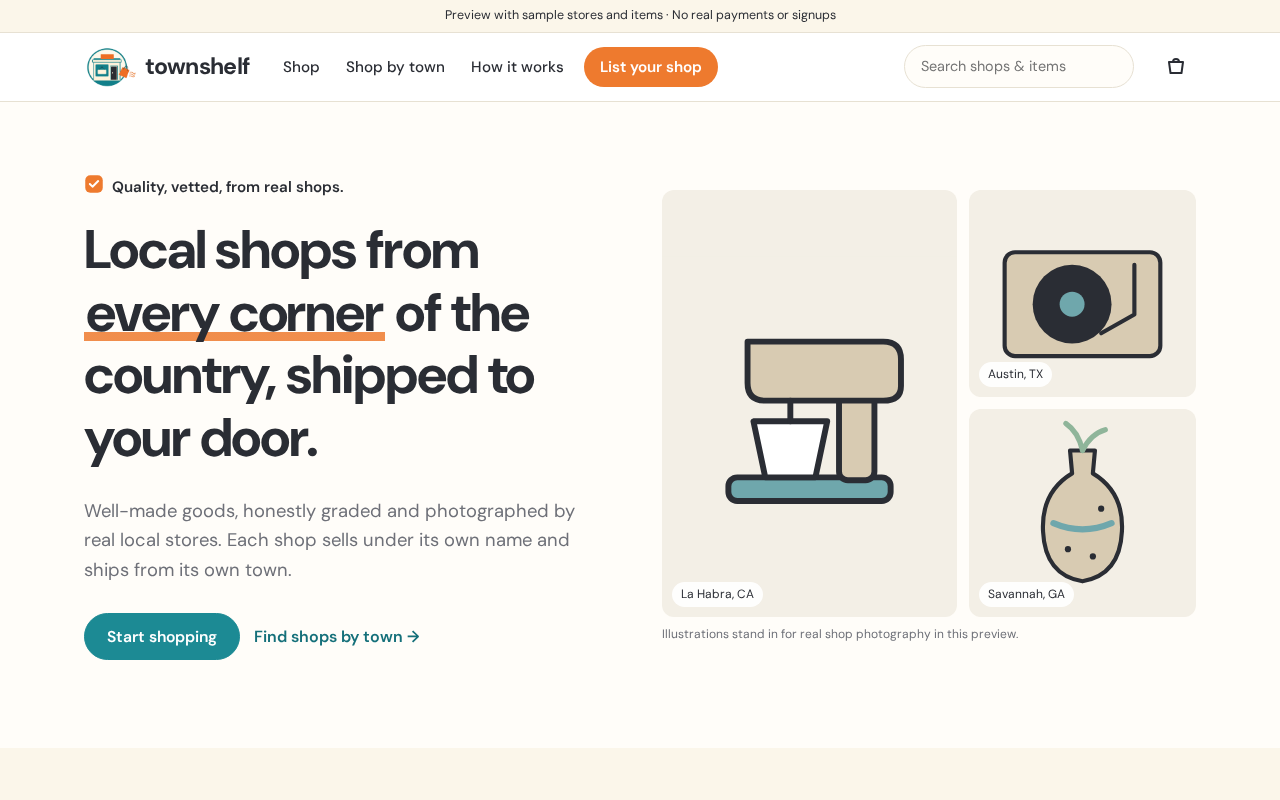
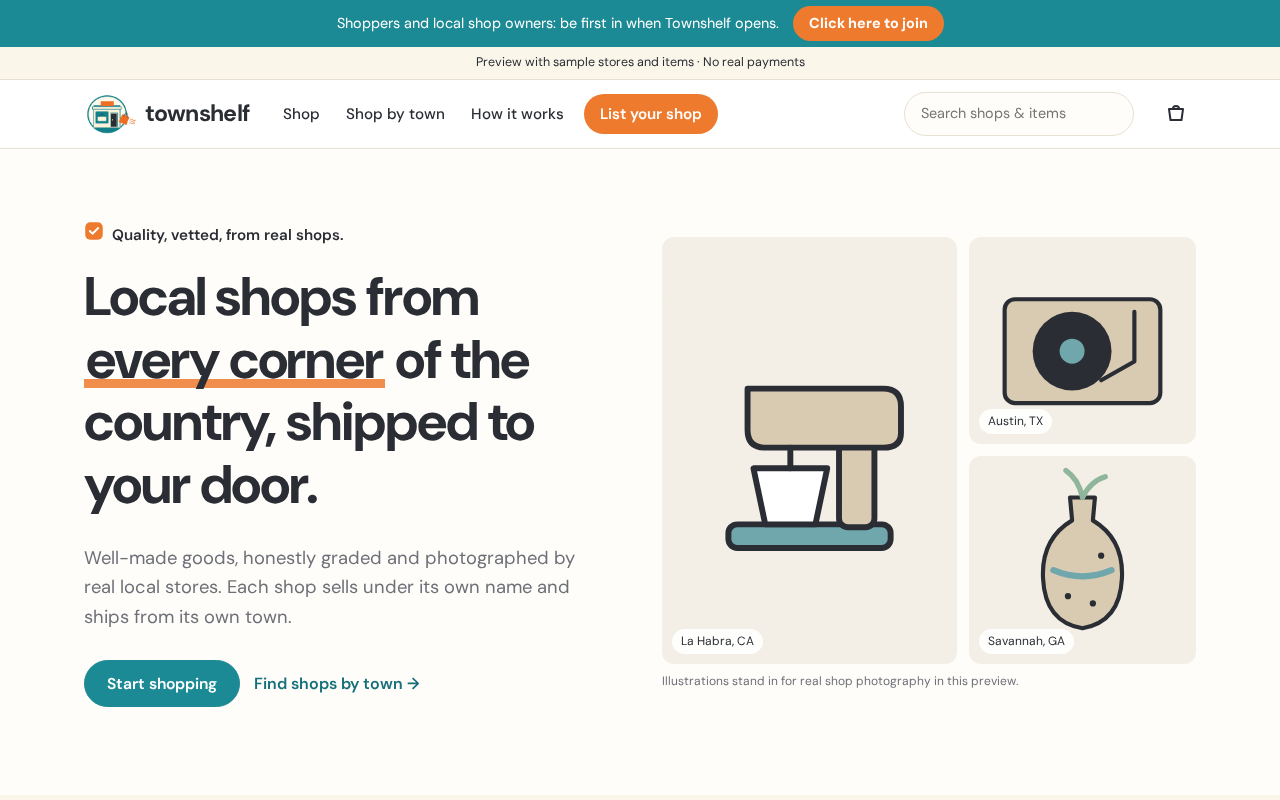
Add 'Click here to join' top bar and join form (FormSubmit to Mitch), bump service worker cache to v2

diff --git a/js/app.js b/js/app.js
@@ -168,6 +168,71 @@ TS.openDrawer = function(){
 };
 TS.closeDrawer = function(){document.getElementById("drawer").classList.remove("open");document.body.classList.remove("noscroll");};
 
+/* ---------- join form (FormSubmit, emails Mitch) ---------- */
+TS.JOIN_ENDPOINT = "https://formsubmit.co/ajax/Mitch@megabrownbox.com";
+TS.joinInit = function(){
+  if(document.getElementById("join")) return;
+  var m=document.createElement("div");
+  m.id="join"; m.className="join-modal"; m.setAttribute("aria-hidden","true");
+  m.innerHTML=
+   '<div class="join-scrim" data-join-close></div>'+
+   '<div class="join-panel" role="dialog" aria-modal="true" aria-labelledby="joinTitle">'+
+   '<button type="button" class="join-x" data-join-close aria-label="Close">×</button>'+
+   '<div class="join-form-wrap">'+
+   '<p class="eyebrow">Join Townshelf</p><h2 id="joinTitle">Be part of Townshelf</h2>'+
+   '<p class="join-lede">Leave your details and we\'ll reach out personally. Shop owners: tell us a little about your store.</p>'+
+   '<form id="joinForm" action="https://formsubmit.co/Mitch@megabrownbox.com" method="POST" novalidate>'+
+   '<input type="hidden" name="_subject" value="New Townshelf join request">'+
+   '<input type="hidden" name="_template" value="table">'+
+   '<input type="hidden" name="_captcha" value="false">'+
+   '<input type="hidden" name="Page" value="">'+
+   '<div class="join-hp" aria-hidden="true"><label>Leave this empty<input type="text" name="_honey" tabindex="-1" autocomplete="off"></label></div>'+
+   '<div class="join-row"><label>Name<input name="Name" required autocomplete="name"></label>'+
+   '<label>Email<input name="Email" type="email" required autocomplete="email"></label></div>'+
+   '<fieldset class="join-role"><legend>I am a</legend>'+
+   '<label class="join-chip"><input type="radio" name="I am a" value="Shopper" required><span>Shopper</span></label>'+
+   '<label class="join-chip"><input type="radio" name="I am a" value="Shop owner"><span>Shop owner</span></label></fieldset>'+
+   '<div class="join-owner" hidden>'+
+   '<div class="join-row"><label>Shop name <i>(optional)</i><input name="Shop name" autocomplete="organization"></label>'+
+   '<label>City, state <i>(optional)</i><input name="City/State" placeholder="e.g. La Habra, CA"></label></div>'+
+   '<div class="join-row"><label>Phone <i>(optional)</i><input name="Phone" type="tel" autocomplete="tel"></label>'+
+   '<label>Website or Instagram <i>(optional)</i><input name="Website/Instagram" placeholder="yourshop.com or @yourshop"></label></div></div>'+
+   '<label>Message <i>(optional)</i><textarea name="Message" rows="3"></textarea></label>'+
+   '<p class="join-err" role="alert" hidden></p>'+
+   '<button class="btn btn-primary join-submit" type="submit">Send</button>'+
+   '<p class="join-fine">Your details are sent to the Townshelf team by email.</p>'+
+   '</form></div>'+
+   '<div class="join-thanks" hidden tabindex="-1">'+TS.checkIcon(40)+'<h2>Thanks, you\'re on the list!</h2><p>We got your details and will be in touch soon.</p><button type="button" class="btn btn-ghost" data-join-close>Back to the site</button></div>'+
+   '</div>';
+  document.body.appendChild(m);
+  var form=m.querySelector("#joinForm"), owner=m.querySelector(".join-owner"), err=m.querySelector(".join-err"), lastFocus=null;
+  function open(){lastFocus=document.activeElement;m.classList.add("open");m.setAttribute("aria-hidden","false");document.documentElement.classList.add("join-lock");setTimeout(function(){var f=form.querySelector('[name="Name"]');if(f&&!m.querySelector(".join-thanks:not([hidden])"))f.focus();},50);}
+  function close(){m.classList.remove("open");m.setAttribute("aria-hidden","true");document.documentElement.classList.remove("join-lock");if(location.hash==="#join")history.replaceState(null,"",location.pathname+location.search);if(lastFocus&&lastFocus.focus)lastFocus.focus();}
+  TS.openJoin=open; TS.closeJoin=close;
+  document.addEventListener("click",function(e){var t=e.target.closest&&e.target.closest("[data-join]");if(t){e.preventDefault();open();}var c=e.target.closest&&e.target.closest("[data-join-close]");if(c){e.preventDefault();close();}});
+  document.addEventListener("keydown",function(e){if(e.key==="Escape"&&m.classList.contains("open"))close();});
+  window.addEventListener("hashchange",function(){if(location.hash==="#join")open();});
+  if(location.hash==="#join")open();
+  form.addEventListener("change",function(e){if(e.target.name==="I am a"){owner.hidden=e.target.value!=="Shop owner";}});
+  form.addEventListener("submit",function(e){
+    e.preventDefault(); err.hidden=true;
+    if(!form.checkValidity()){var bad=form.querySelector(":invalid");err.textContent=bad&&bad.type==="email"&&bad.value?"Please enter a valid email address.":"Please fill in your name, email and whether you're a shopper or shop owner.";err.hidden=false;if(bad)bad.focus();return;}
+    form.querySelector('[name="Page"]').value=location.href.split("#")[0];
+    var data={}; new FormData(form).forEach(function(v,k){data[k]=v;});
+    if(data["I am a"]!=="Shop owner"){["Shop name","City/State","Phone","Website/Instagram"].forEach(function(k){delete data[k];});}
+    function done(){m.querySelector(".join-form-wrap").hidden=true;var th=m.querySelector(".join-thanks");th.hidden=false;th.focus();form.reset();owner.hidden=true;}
+    if(data._honey){done();return;}   // bot filled the honeypot: pretend success, send nothing
+    var btn=form.querySelector(".join-submit"); btn.disabled=true; btn.textContent="Sending…";
+    fetch(TS.JOIN_ENDPOINT,{method:"POST",headers:{"Content-Type":"application/json","Accept":"application/json"},body:JSON.stringify(data)})
+      .then(function(r){return r.json().catch(function(){return {};}).then(function(j){return {ok:r.ok,j:j};});})
+      .then(function(res){var j=res.j||{};
+        if(res.ok && (String(j.success)==="true" || /activat/i.test(j.message||""))) done();
+        else throw new Error(j.message||"send failed");})
+      .catch(function(){err.innerHTML='Sorry, that didn\'t go through. Please try again, or email <a href="mailto:Mitch@megabrownbox.com">Mitch@megabrownbox.com</a>.';err.hidden=false;})
+      .then(function(){btn.disabled=false;btn.textContent="Send";});
+  });
+};
+
 /* ---------- chrome ---------- */
 function nav(active){
   var L=[["browse.html","Shop"],["browse.html#towns","Shop by town"],["about.html","How it works"],["list-your-shop.html","List your shop"]];
@@ -176,7 +241,8 @@ function nav(active){
 TS.chrome = function(active){
   var h=document.getElementById("site-header");
   if(h) h.innerHTML =
-   '<div class="preview-banner">Preview with sample stores and items · No real payments or signups</div>'+
+   '<div class="joinbar"><div class="wrap joinbar-in"><span class="joinbar-txt">Shoppers and local shop owners: be first in when Townshelf opens.</span><a class="joinbar-btn" href="#join" data-join>Click here to join</a></div></div>'+
+   '<div class="preview-banner">Preview with sample stores and items · No real payments</div>'+
    '<header class="topbar"><div class="wrap topbar-in">'+
    '<a class="brand" href="index.html"><img src="assets/logo-icon.png?v=2" alt="" width="55" height="44"><span>townshelf</span></a>'+
    '<nav class="mainnav" id="mainnav">'+nav(active)+'</nav>'+
@@ -189,13 +255,14 @@ TS.chrome = function(active){
    '<footer class="footer"><div class="wrap footer-grid">'+
    '<div><a class="brand brand-foot" href="index.html"><img src="assets/logo-icon.png?v=2" alt="" width="55" height="44"><span>townshelf</span></a><p>Quality, vetted goods from real local shops in every corner of the country, shipped to your door. Every order keeps a local shop open.</p></div>'+
    '<div><h4>Shop</h4><a href="browse.html">All items</a><a href="browse.html#towns">Shop by town</a><a href="store.html?id=mega-brown-box">Mega Brown Box</a></div>'+
-   '<div><h4>Townshelf</h4><a href="about.html">How it works</a><a href="about.html#faq">FAQ</a><a href="list-your-shop.html">List your shop</a><a href="cart.html">Cart (preview)</a></div>'+
+   '<div><h4>Townshelf</h4><a href="about.html">How it works</a><a href="about.html#faq">FAQ</a><a href="list-your-shop.html">List your shop</a><a href="#join" data-join>Join Townshelf</a><a href="cart.html">Cart (preview)</a></div>'+
    '</div><div class="wrap footer-note">Preview prototype with sample stores and items. Apart from Mega Brown Box (La Habra, CA), shops, owners and quotes are fictional; Mega Brown Box items shown are generic examples. Prices are sample figures. No payments are processed.<br>Townshelf is not affiliated with American Express.</div></footer>'+
    '<div class="drawer" id="drawer" aria-hidden="true"><div class="drawer-scrim" onclick="TS.closeDrawer()"></div><aside class="drawer-panel" role="dialog" aria-label="Cart">'+
    '<div class="drawer-head"><strong>Added to your cart</strong><button onclick="TS.closeDrawer()" aria-label="Close">✕</button></div>'+
    '<div class="preview-pill">Preview only, no payment</div><div class="drawer-body"></div>'+
    '<div class="drawer-foot"><a class="btn btn-primary" href="cart.html">View cart & checkout</a><button class="btn btn-ghost" onclick="TS.closeDrawer()">Keep shopping</button></div></aside></div>';
   TS.updateCount();
+  TS.joinInit();
   if(document.readyState==='loading'){document.addEventListener('DOMContentLoaded',function(){setTimeout(TS.reveal,0);});}else{setTimeout(TS.reveal,0);}
 };
 })();

diff --git a/css/style.css b/css/style.css
@@ -407,3 +407,41 @@ hr.rule{border:0;border-top:1px solid var(--line);margin:0}
 .pwa-anim.in{opacity:1;transform:translate(-50%,0)}
 .ts-update{position:fixed;left:50%;top:12px;transform:translateX(-50%);z-index:70;display:flex;align-items:center;gap:10px;background:#fff;border:1px solid var(--line);border-radius:999px;box-shadow:0 6px 20px rgba(42,45,52,.12);padding:6px 6px 6px 16px;font-size:.9rem;width:max-content;max-width:calc(100% - 24px)}
 .ts-update .pwa-x{position:static}
+
+/* join CTA bar + join form */
+.joinbar{background:var(--teal);color:#fff;font-size:.9rem}
+.joinbar-in{display:flex;align-items:center;justify-content:center;gap:14px;min-height:44px;padding-top:6px;padding-bottom:6px}
+.joinbar-btn{background:var(--orange);color:#fff;font-weight:700;text-decoration:none;padding:6px 16px;border-radius:999px;white-space:nowrap;transition:background .15s,transform .15s}
+.joinbar-btn:hover{background:#d9661b}
+.joinbar-btn:focus-visible{outline:2px solid #fff;outline-offset:2px}
+@media (max-width:640px){.joinbar-txt{font-size:.8rem;line-height:1.3}.joinbar-in{gap:10px;justify-content:space-between}.joinbar-btn{padding:7px 14px;font-size:.88rem}}
+.join-lock,.join-lock body{overflow:hidden}
+.join-modal{position:fixed;inset:0;z-index:80;display:none;align-items:center;justify-content:center;padding:16px}
+.join-modal.open{display:flex}
+.join-scrim{position:absolute;inset:0;background:rgba(42,45,52,.45)}
+.join-panel{position:relative;background:var(--paper);border-radius:18px;box-shadow:0 20px 60px rgba(42,45,52,.25);width:min(560px,100%);max-height:calc(100dvh - 32px);overflow:auto;padding:28px 28px 22px}
+.join-panel h2{margin:0 0 6px;font-size:1.7rem}
+.join-lede{color:var(--muted);margin:0 0 16px;font-size:.95rem}
+.join-x{position:absolute;top:10px;right:10px;width:36px;height:36px;border:0;background:none;font-size:1.6rem;line-height:1;color:var(--muted);cursor:pointer;border-radius:8px}
+.join-x:hover{background:var(--cream);color:var(--ink)}
+#joinForm label{display:block;font-size:.88rem;font-weight:600;margin-bottom:12px}
+#joinForm label i{font-weight:400;color:var(--muted);font-style:normal}
+#joinForm input:not([type=radio]),#joinForm textarea{display:block;width:100%;box-sizing:border-box;margin-top:5px;font:inherit;font-weight:400;font-size:.95rem;padding:10px 12px;border:1px solid var(--line);border-radius:10px;background:#fff;color:var(--ink)}
+#joinForm input:focus,#joinForm textarea:focus{outline:2px solid var(--teal);outline-offset:0;border-color:var(--teal)}
+.join-row{display:grid;grid-template-columns:1fr 1fr;gap:0 12px}
+@media (max-width:520px){.join-row{grid-template-columns:1fr}.join-panel{padding:24px 18px 18px}}
+.join-role{border:0;padding:0;margin:0 0 12px;display:flex;gap:10px;flex-wrap:wrap}
+.join-role legend{font-size:.88rem;font-weight:600;margin-bottom:6px;padding:0}
+#joinForm .join-chip{margin:0;cursor:pointer}
+.join-chip input{position:absolute;opacity:0;pointer-events:none}
+.join-chip span{display:inline-block;padding:8px 18px;border:1px solid var(--line);border-radius:999px;background:#fff;font-weight:600}
+.join-chip input:checked+span{background:var(--teal);border-color:var(--teal);color:#fff}
+.join-chip input:focus-visible+span{outline:2px solid var(--teal);outline-offset:2px}
+.join-owner{background:var(--cream);border-radius:12px;padding:12px 12px 2px;margin-bottom:12px}
+.join-hp{position:absolute;left:-9999px;width:1px;height:1px;overflow:hidden}
+.join-err{color:#B3261E;font-size:.88rem;margin:0 0 10px}
+.join-submit{width:100%}
+.join-fine{font-size:.78rem;color:var(--muted);margin:10px 0 0;text-align:center}
+.join-thanks{text-align:center;padding:20px 6px 8px;outline:none}
+.join-thanks h2{margin:12px 0 6px}
+.join-thanks p{color:var(--muted);margin:0 0 18px}

diff --git a/sw.js b/sw.js
@@ -1,6 +1,6 @@
 /* Townshelf service worker: caches the site shell + sample data for offline use.
    Bump VERSION whenever shell files change; old caches are removed on activate. */
-const VERSION = "townshelf-v1";
+const VERSION = "townshelf-v2";
 const SHELL = [
   "./", "index.html", "browse.html", "store.html", "item.html", "cart.html", "list-your-shop.html", "about.html",
   "css/style.css", "js/app.js", "js/art.js", "js/pwa.js", "data/data.js",

diff --git a/tools/join_check.py b/tools/join_check.py
@@ -1,0 +1,37 @@
+"""Screenshot the join CTA + form and test the submit flow with FormSubmit MOCKED (no real request is sent)."""
+import asyncio, json, sys
+from playwright.async_api import async_playwright
+BASE = sys.argv[1] if len(sys.argv) > 1 else "http://127.0.0.1:8765"
+OUT = "screenshots"
+async def main():
+    async with async_playwright() as p:
+        b = await p.chromium.launch(); errs = []; sent = []
+        for name, vp, mob in [("desktop", {"width": 1280, "height": 800}, False), ("mobile", {"width": 390, "height": 844}, True)]:
+            ctx = await b.new_context(viewport=vp, device_scale_factor=2 if mob else 1, is_mobile=mob, has_touch=mob, reduced_motion="reduce")
+            async def mock(route):
+                sent.append({"url": route.request.url, "method": route.request.method, "body": json.loads(route.request.post_data or "{}")})
+                await route.fulfill(status=200, content_type="application/json", body='{"success":"true","message":"The form was submitted successfully."}')
+            await ctx.route("https://formsubmit.co/**", mock)      # never hit the real service
+            pg = await ctx.new_page(); pg.on("pageerror", lambda e: errs.append(str(e)))
+            await pg.goto(BASE + "/index.html", wait_until="networkidle")
+            await pg.evaluate("navigator.serviceWorker && navigator.serviceWorker.ready")
+            await pg.reload(wait_until="networkidle")   # now controlled by the service worker
+            ctrl = await pg.evaluate("!!(navigator.serviceWorker && navigator.serviceWorker.controller)")
+            await pg.screenshot(path=f"{OUT}/join-cta-{name}.png", clip={"x": 0, "y": 0, "width": vp["width"], "height": 200 if mob else 160})
+            await pg.click(".joinbar-btn"); await pg.wait_for_selector("#join.open")
+            await pg.fill('[name="Name"]', "Test Person"); await pg.fill('[name="Email"]', "test@example.com")
+            await pg.click('.join-chip:has-text("Shop owner")')
+            await pg.fill('[name="Shop name"]', "Example Shop"); await pg.fill('[name="City/State"]', "La Habra, CA")
+            await pg.wait_for_timeout(200)
+            await pg.screenshot(path=f"{OUT}/join-form-{name}.png")
+            await pg.click(".join-submit"); await pg.wait_for_selector(".join-thanks:not([hidden])")
+            await pg.screenshot(path=f"{OUT}/join-thanks-{name}.png")
+            # empty submit shows validation error
+            await pg.click(".join-thanks [data-join-close]"); await pg.goto(BASE + "/browse.html#join", wait_until="networkidle")
+            opened = await pg.evaluate("document.getElementById('join').classList.contains('open')")
+            await pg.click(".join-submit"); err = await pg.locator(".join-err").inner_text()
+            print(name, "| sw controlled:", ctrl, "| #join deep link opens:", opened, "| empty-submit error:", err[:60])
+            await ctx.close()
+        print("mocked requests:", json.dumps(sent, indent=1)); print("page errors:", errs or "none")
+        await b.close()
+asyncio.run(main())

diff --git a/README.md b/README.md
@@ -85,6 +85,16 @@ All motion is turned off when the visitor's system has `prefers-reduced-motion` 
 - "Recently checked" horizontal strip of newly checked items
 - Category chip row (on home it links to Browse; on Browse it filters the results)
 
+## Join form ("Click here to join")
+
+A teal bar at the very top of every page has an orange **Click here to join** button (there's also a "Join Townshelf" link in the footer, and any link to `#join` opens it). It opens a short form: name, email, I am a (Shopper / Shop owner), optional shop name, city/state, phone and website/Instagram for shop owners, and an optional message.
+
+Submissions are sent with [FormSubmit](https://formsubmit.co) (AJAX endpoint `https://formsubmit.co/ajax/Mitch@megabrownbox.com`, set in `TS.JOIN_ENDPOINT` in `js/app.js`) with the subject "New Townshelf join request", the table template, and a `_honey` honeypot field. A thank-you message is shown in place after sending.
+
+**Activation:** the very first submission makes FormSubmit send a one-time "Activate Form" email to Mitch@megabrownbox.com. Click it once; after that every submission is emailed. The service worker never handles POSTs or other sites' requests, so it doesn't touch submissions.
+
+Test without sending anything: `python3 tools/join_check.py` (FormSubmit is mocked).
+
 ## Installable web app (PWA)
 
 - `manifest.webmanifest`: name/short name "Townshelf", `start_url` and `scope` set to `/townshelf-site/` (the GitHub Pages path), standalone display, cream background (`#FBF6EA`), teal theme (`#1C8A94`), icons at 192 and 512 plus maskable versions in `assets/icons/`.
